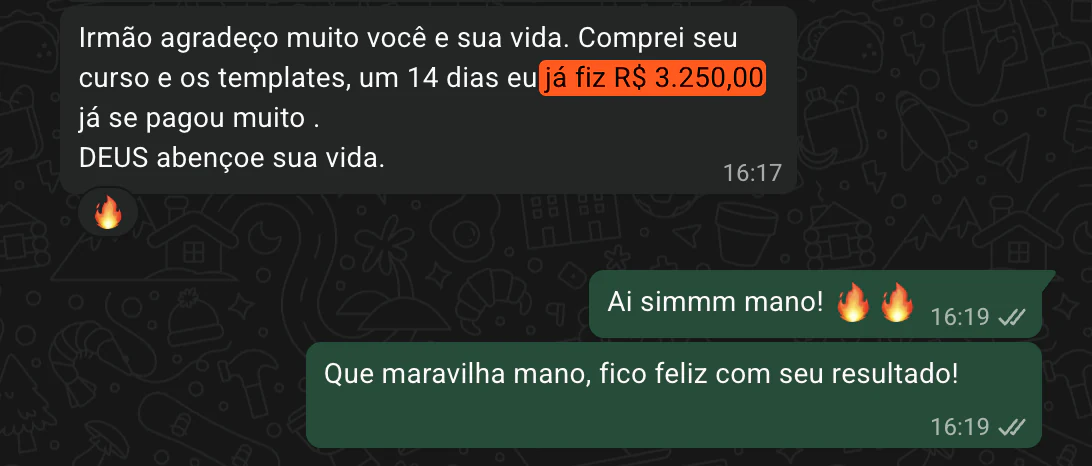
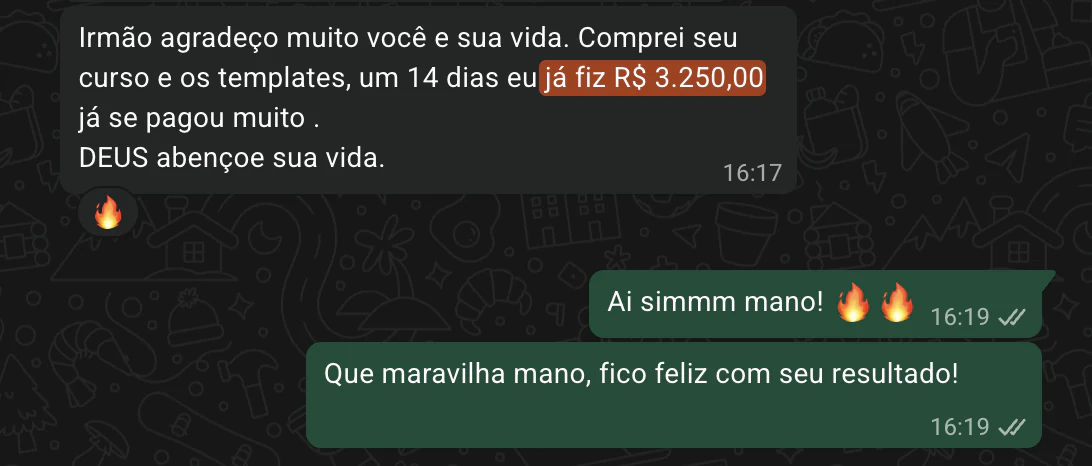
Depoimentos: seção vira "Depoimentos e resultados"; marca-texto do R$ 3.250 translúcido (55%, letra branca)

Changed region(s): [[0.467, 0.1202, 0.7161, 0.2103]]

diff --git a/index-v2.html b/index-v2.html
@@ -230,7 +230,7 @@ try{new PerformanceObserver(function(l){var e=l.getEntries();w.__lcp=Math.round(
   <div class="hairline hairline--top" aria-hidden="true"></div>
   <header class="wrap grid-12 dp-head">
     <div class="dp-intro">
-      <p class="kicker">DEPOIMENTOS E FEEDBACKS</p>
+      <p class="kicker">DEPOIMENTOS E RESULTADOS</p>
       <h2 id="depoimentos-title" class="t-d2" data-reveal="lines">O que nossos <em>alunos</em> dizem</h2>
       <p class="t-lead" data-reveal="up">Depoimentos e feedbacks reais de alunos que passaram pelo treinamento e transformaram sua forma de criar sites.</p>
     </div>
@@ -270,9 +270,9 @@ try{new PerformanceObserver(function(l){var e=l.getEntries();w.__lcp=Math.round(
       <figure class="dp-testimonial dp-testimonial--wide">
         <div class="browser dp-frame" data-theme="ink">
           <div class="browser-bar"><i></i><i></i><i></i><span class="micro dp-legend" data-ui>02 // ALUNO</span></div>
-          <!-- print de conversa enviado pelo dono (17/11): R$ 3.250 em 14 dias; sem nome nem telefone no print. Marca-texto laranja (#FF5A1F) em "já fiz R$ 3.250,00" pintado na própria imagem (pedido do dono, 17/11); a original sem marca é privado-01-3250.webp -->
-          <a class="dp-print" href="/v2/img/depoimentos/privado-01-3250-destaque.webp?v=1" target="_blank" rel="noopener noreferrer" aria-label="Ampliar depoimento: R$ 3.250 em 14 dias" data-cursor="ver">
-            <img src="/v2/img/depoimentos/privado-01-3250-destaque.webp?v=1" width="1092" height="466" alt="Print da conversa: aluno conta que fez R$ 3.250 em 14 dias com o curso e os templates" loading="lazy" decoding="async">
+          <!-- print de conversa enviado pelo dono (17/11): R$ 3.250 em 14 dias; sem nome nem telefone no print. Marca-texto laranja (#FF5A1F a 55%, atrás das letras) em "já fiz R$ 3.250,00" pintado na própria imagem (pedido do dono, 17/11); a original sem marca é privado-01-3250.webp -->
+          <a class="dp-print" href="/v2/img/depoimentos/privado-01-3250-destaque.webp?v=2" target="_blank" rel="noopener noreferrer" aria-label="Ampliar depoimento: R$ 3.250 em 14 dias" data-cursor="ver">
+            <img src="/v2/img/depoimentos/privado-01-3250-destaque.webp?v=2" width="1092" height="466" alt="Print da conversa: aluno conta que fez R$ 3.250 em 14 dias com o curso e os templates" loading="lazy" decoding="async">
           </a>
         </div>
         <figcaption class="visually-hidden">

diff --git a/v2/src/sections/depoimentos/depoimentos.html b/v2/src/sections/depoimentos/depoimentos.html
@@ -2,7 +2,7 @@
   <div class="hairline hairline--top" aria-hidden="true"></div>
   <header class="wrap grid-12 dp-head">
     <div class="dp-intro">
-      <p class="kicker">DEPOIMENTOS E FEEDBACKS</p>
+      <p class="kicker">DEPOIMENTOS E RESULTADOS</p>
       <h2 id="depoimentos-title" class="t-d2" data-reveal="lines">O que nossos <em>alunos</em> dizem</h2>
       <p class="t-lead" data-reveal="up">Depoimentos e feedbacks reais de alunos que passaram pelo treinamento e transformaram sua forma de criar sites.</p>
     </div>
@@ -42,9 +42,9 @@
       <figure class="dp-testimonial dp-testimonial--wide">
         <div class="browser dp-frame" data-theme="ink">
           <div class="browser-bar"><i></i><i></i><i></i><span class="micro dp-legend" data-ui>02 // ALUNO</span></div>
-          <!-- print de conversa enviado pelo dono (17/11): R$ 3.250 em 14 dias; sem nome nem telefone no print. Marca-texto laranja (#FF5A1F) em "já fiz R$ 3.250,00" pintado na própria imagem (pedido do dono, 17/11); a original sem marca é privado-01-3250.webp -->
-          <a class="dp-print" href="/v2/img/depoimentos/privado-01-3250-destaque.webp?v=1" target="_blank" rel="noopener noreferrer" aria-label="Ampliar depoimento: R$ 3.250 em 14 dias" data-cursor="ver">
-            <img src="/v2/img/depoimentos/privado-01-3250-destaque.webp?v=1" width="1092" height="466" alt="Print da conversa: aluno conta que fez R$ 3.250 em 14 dias com o curso e os templates" loading="lazy" decoding="async">
+          <!-- print de conversa enviado pelo dono (17/11): R$ 3.250 em 14 dias; sem nome nem telefone no print. Marca-texto laranja (#FF5A1F a 55%, atrás das letras) em "já fiz R$ 3.250,00" pintado na própria imagem (pedido do dono, 17/11); a original sem marca é privado-01-3250.webp -->
+          <a class="dp-print" href="/v2/img/depoimentos/privado-01-3250-destaque.webp?v=2" target="_blank" rel="noopener noreferrer" aria-label="Ampliar depoimento: R$ 3.250 em 14 dias" data-cursor="ver">
+            <img src="/v2/img/depoimentos/privado-01-3250-destaque.webp?v=2" width="1092" height="466" alt="Print da conversa: aluno conta que fez R$ 3.250 em 14 dias com o curso e os templates" loading="lazy" decoding="async">
           </a>
         </div>
         <figcaption class="visually-hidden">
